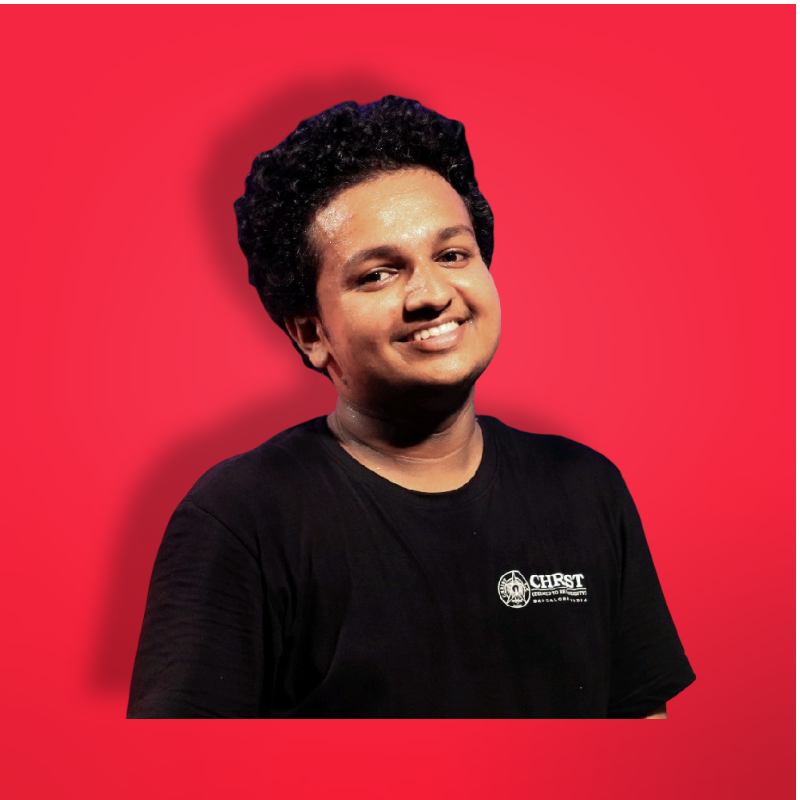
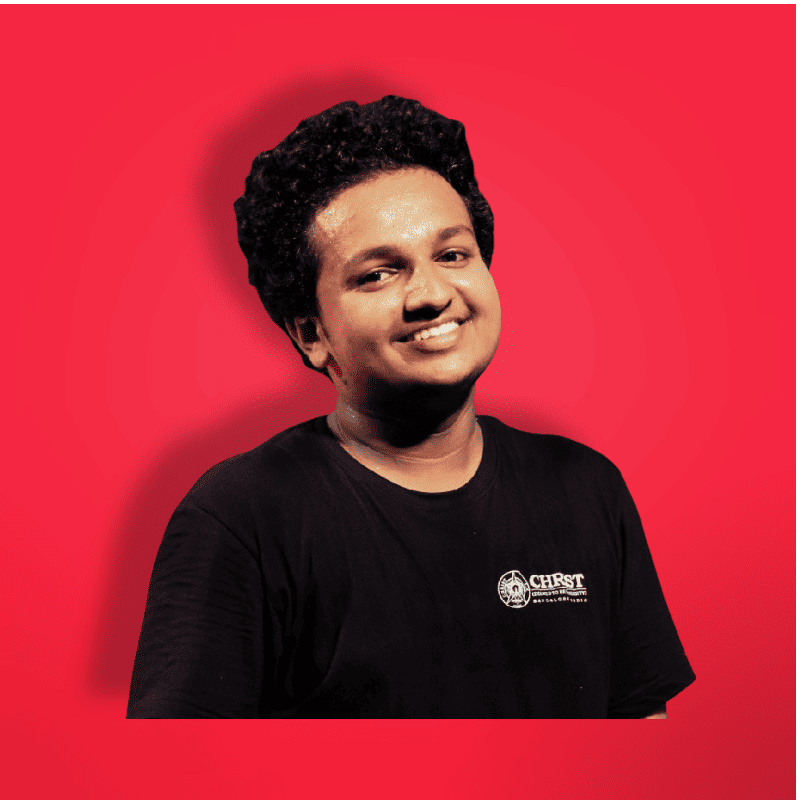
image compression

diff --git a/src/app/profile/page.js b/src/app/profile/page.js
@@ -157,7 +157,7 @@ export const P2 = {
     name: "Payment Portal for Merchant ",
     company: "Comviva Technologies Ltd. ",
     location: "Bangalore, IN",
-    src: "/ppsample.webp",
+    src: "/ppsample.png",
     classstyle: 'object-cover scale-130',
     duration: "APRIL 2023 - SEPTEMBER 2024",
     content: [
